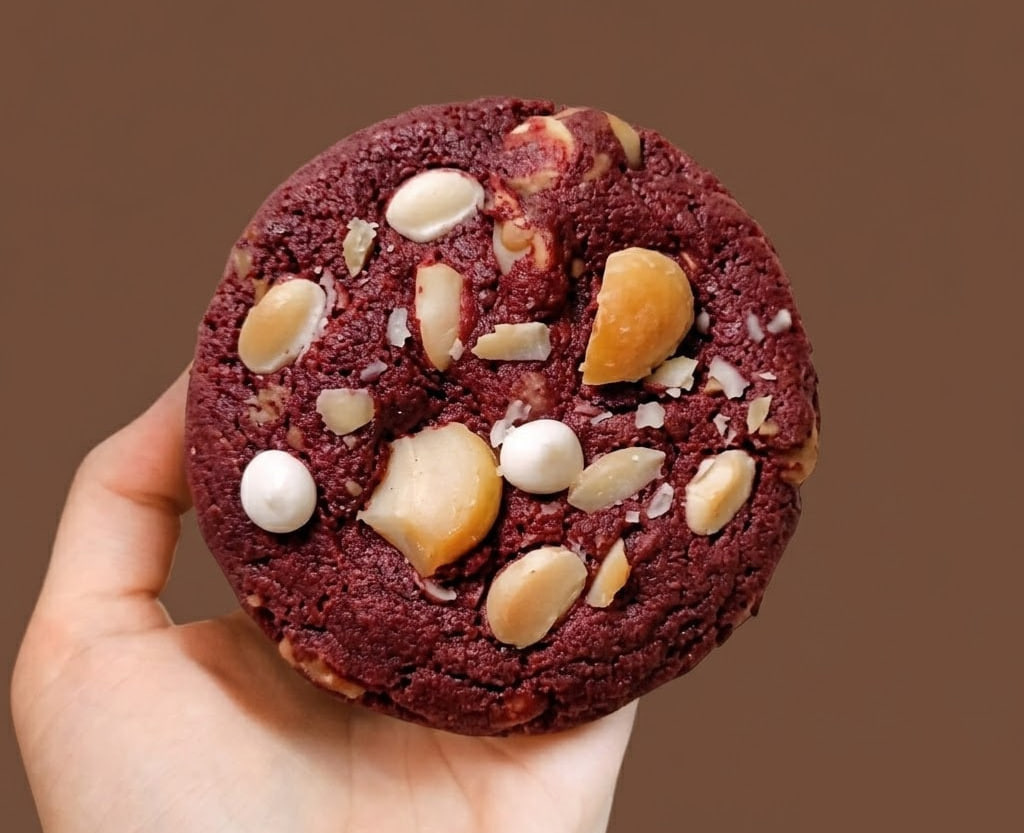
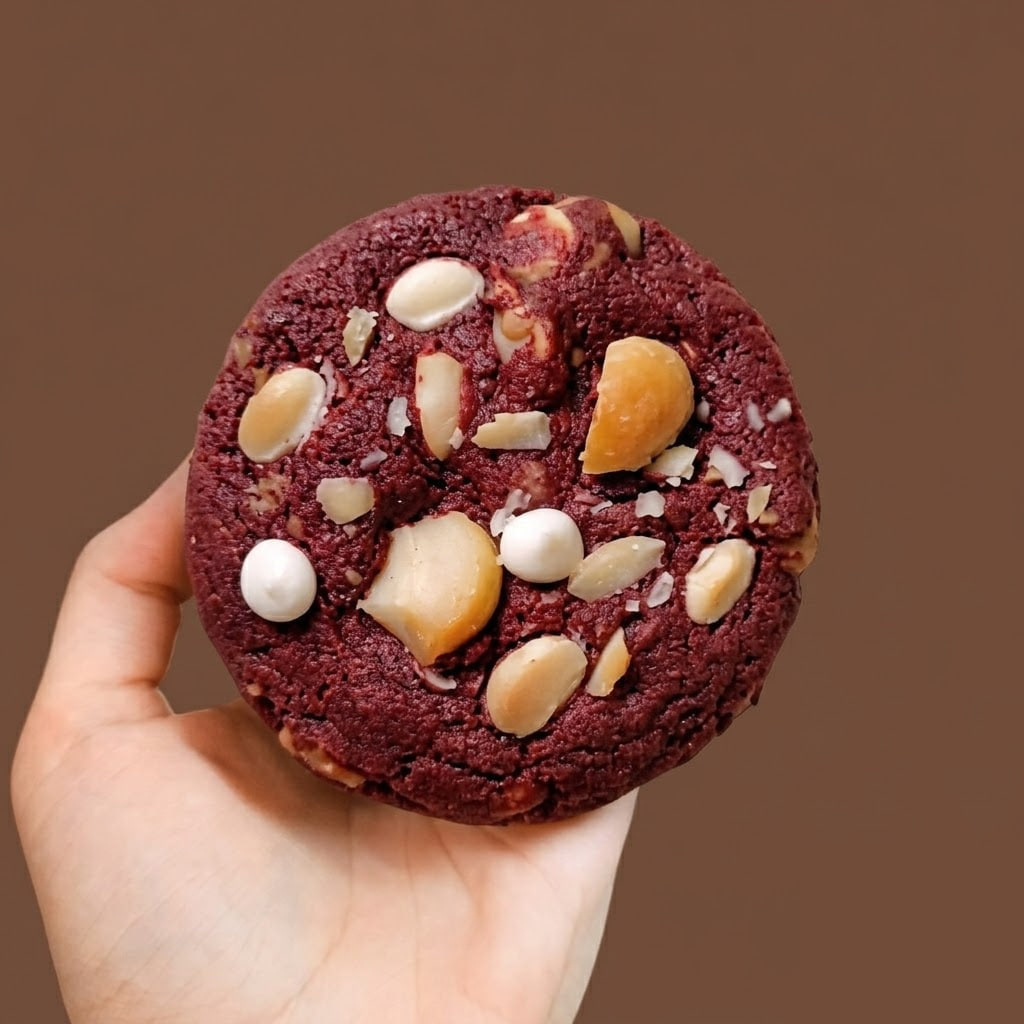
carrusel 3d mejorado pt2

diff --git a/app/products/page.tsx b/app/products/page.tsx
@@ -793,7 +793,7 @@ function Carousel3D({
                       fill
                       className="object-cover object-center"
                       sizes="(max-width:768px) 280px, 460px"
-                      style={{ filter: "brightness(1.2) contrast(1)" }}
+                      style={{ filter: "brightness(1.1) contrast(1)" }}
                     />
                   </motion.div>
 
